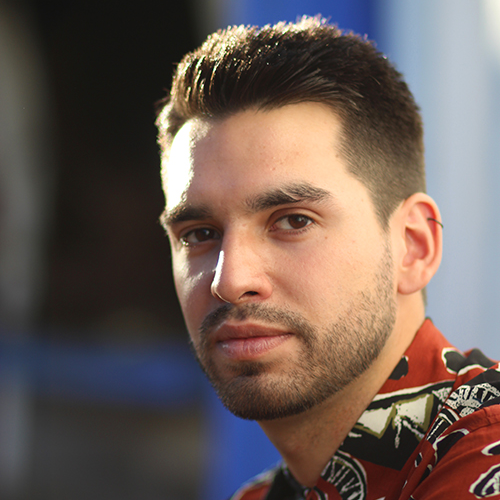
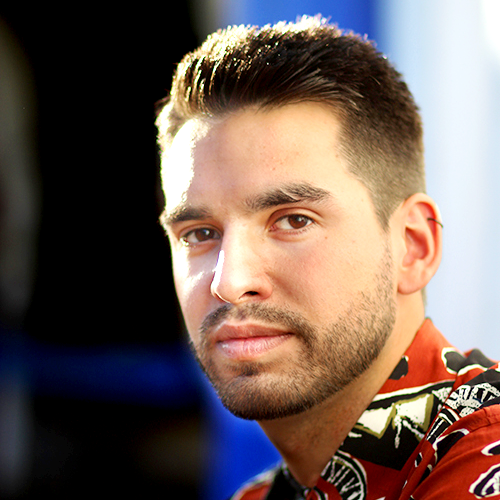
added red

diff --git a/assets/scss/app.scss b/assets/scss/app.scss
@@ -45,6 +45,7 @@ $scrollbar-width: .45rem;
 
 @import 'layout';
 @import 'modal';
+@import 'blobs';
 
 * {
 	text-rendering: optimizeLegibility;
@@ -103,6 +104,7 @@ $scrollbar-width: .45rem;
 
 
 :root {
+  // --primary: $color-primary;
   --blue: #494eff;
   --indigo: #6610f2;
   --purple: #710bb8;
@@ -11272,15 +11274,27 @@ a.badge-danger:focus {
   padding-left: 0;
   border-radius: 0;
 }
+.jumbotron-img-container {
+	position: relative;
+	width: 12rem;
+  height: 12rem;
+	margin-bottom: 4rem;
+	&.--has-blob {
+		padding: 1.25rem;
+	}
+}
+
 .jumbotron-img {
+	position: absolute;
   display: block;
-  width: 140px;
-  width: 10rem;
-  height: 140px;
-  height: 10rem;
-  border-radius: 5rem;
-  border: 2px solid $color-secondary;
-  margin-bottom: 4rem;
+	width: 100%;
+	height: 100%;
+  border-radius: 100%;
+	mix-blend-mode: darken;
+  // width: 10rem;
+  // height: 10rem;
+  // border: 2px solid $color-secondary;
+  // margin-bottom: 4rem;
 }
 .alert {
   position: relative;
@@ -12441,19 +12455,9 @@ a.badge-danger:focus {
   height: 1rem;
 }
 .section {
-  display: -webkit-box;
-  display: -webkit-flex;
-  display: -ms-flexbox;
   display: flex;
   position: relative;
-  -webkit-box-orient: vertical;
-  -webkit-box-direction: normal;
-  -webkit-flex-direction: column;
-  -ms-flex-direction: column;
   flex-direction: column;
-  -webkit-box-pack: justify;
-  -webkit-justify-content: space-between;
-  -ms-flex-pack: justify;
   justify-content: space-between;
   min-height: 100vh;
   overflow: hidden;
@@ -12471,6 +12475,23 @@ a.badge-danger:focus {
   text-transform: uppercase;
   font-size: 35px;
   font-size: 2.5rem;
+	&::before {
+		display: inline-block;
+		content: "#";
+		width: 2rem;
+		// width: 0;
+		// height: 2.75rem;
+		color: red;
+		transform-origin: left;
+		transform: scaleX(0);
+		transition: all ease-in-out .4s;
+		@include heading();
+
+		.interaction-in & {
+			// width: 2rem;
+			transform: scaleX(1);
+		}
+	}
 }
 @media (min-width: 360px) {
   .section-title {
@@ -12937,7 +12958,7 @@ a.badge-danger:focus {
   // height: auto;
   max-width: 100%;
   max-height: 100%;
-	filter: grayscale(100%) contrast(1.5);
+	filter: grayscale(100%) contrast(1.75);
 }
 .testimonial {
   display: flex;

diff --git a/assets/scss/_blobs.scss b/assets/scss/_blobs.scss
@@ -1,0 +1,105 @@
+
+.blob-container {
+	position: absolute;
+	width: 100%;
+	height: 100%;
+	transform: scale(1.195);
+}
+
+.blob {
+	position: relative;
+	animation: blob-turn var(--time, 30s) linear infinite;
+	fill: var(--fill, #7600f8);
+	transform-origin: center;
+}
+
+.blob svg {
+	animation: blob-skew calc(var(--time, 30s) * 0.5) linear 0s infinite;
+	transform-origin: center;
+}
+
+.blob svg path {
+	animation: blob-scale calc(var(--time, 30s) * 0.5) ease-in-out 0s infinite;
+	transform-origin: center;
+}
+
+@keyframes blob-turn {
+	0% {
+		transform: rotate(0deg), scale(1);
+	}
+	100% {
+		transform: rotate(360deg), scale(3);
+	}
+}
+
+@keyframes blob-skew {
+	0% {
+		transform: skewY(0deg);
+	}
+	13% {
+		transform: skewY(calc((1.8deg) * var(--amount, 2)));
+	}
+	18% {
+		transform: skewY(calc((2.2deg) * var(--amount, 2)));
+	}
+	24% {
+		transform: skewY(calc((2.48deg) * var(--amount, 2)));
+	}
+	25% {
+		transform: skewY(calc((2.5deg) * var(--amount, 2)));
+	}
+	26% {
+		transform: skewY(calc((2.48deg) * var(--amount, 2)));
+	}
+	32% {
+		transform: skewY(calc((2.2deg) * var(--amount, 2)));
+	}
+	37% {
+		transform: skewY(calc((1.8deg) * var(--amount, 2)));
+	}
+	50% {
+		transform: skewY(0deg);
+	}
+	63% {
+		transform: skewY(calc((-1.8deg) * var(--amount, 2)));
+	}
+	68% {
+		transform: skewY(calc((-2.2deg) * var(--amount, 2)));
+	}
+	74% {
+		transform: skewY(calc((-2.48deg) * var(--amount, 2)));
+	}
+	75% {
+		transform: skewY(calc((-2.5deg) * var(--amount, 2)));
+	}
+	76% {
+		transform: skewY(calc((-2.48deg) * var(--amount, 2)));
+	}
+	82% {
+		transform: skewY(calc((-2.2deg) * var(--amount, 2)));
+	}
+	87% {
+		transform: skewY(calc((-1.8deg) * var(--amount, 2)));
+	}
+	100% {
+		transform: skewY(0deg);
+	}
+}
+
+@keyframes blob-scale {
+	0% {
+		transform: scaleX(0.9) scaleY(1);
+	}
+	25% {
+		transform: scaleX(0.9) scaleY(0.9);
+	}
+	50% {
+		transform: scaleX(1) scaleY(0.9);
+	}
+	75% {
+		transform: scaleX(0.9) scaleY(0.9);
+	}
+	100% {
+		transform: scaleX(0.9) scaleY(1);
+	}
+}

diff --git a/components/sections/Hero.vue b/components/sections/Hero.vue
@@ -1,12 +1,18 @@
 <template>
   <div class="jumbotron jumbotron-fluid pt-6 pt-lg-8 pb-0 mb-0">
-    <img
-      src="assets/img/avatar.png"
-      class="jumbotron-img animation-translate animation-item-1"
-      alt="Avatar"
-      @mouseenter="$root.$emit('anchor-hover')"
-      @mouseleave="$root.$emit('anchor-hover')"
-    />
+		<div class="jumbotron-img-container --has-blob animation-translate animation-item-1">
+			<Blob time="5" amount="5" fill="#ff007a" />
+			<Blob time="4.75" amount="5" fill="#ff00b5" />
+			<Blob time="3.55" amount="5" fill="#ff23f2" />
+			<Blob time="2.35" amount="5" fill="#ff0000" />
+			<img
+				src="assets/img/avatar.png"
+				alt="Avatar"
+				class="jumbotron-img"
+				@mouseenter="$root.$emit('anchor-hover')"
+				@mouseleave="$root.$emit('anchor-hover')"
+			/>
+		</div>
     <h1
       class="
         display-1 display-animated display-animated-in
@@ -28,7 +34,11 @@
   </div>
 </template>
 <script>
+import Blob from '~/components/Blob.vue'
 export default {
+	components: {
+    Blob
+  },
   props: {
     content: {
       type: Object,

diff --git a/components/Blob.vue b/components/Blob.vue
@@ -1,0 +1,30 @@
+<template>
+	<div class="blob-container">
+		<div class="blob" :style="'--time:' + time + 's;' + '--amount:' + amount +';' + '--fill:' + fill + ';'">
+			<svg xmlns="http://www.w3.org/2000/svg" viewBox="0 0 747.2 726.7">
+				<path
+					d="M539.8 137.6c98.3 69 183.5 124 203 198.4 19.3 74.4-27.1 168.2-93.8 245-66.8 76.8-153.8 136.6-254.2 144.9-100.6 8.2-214.7-35.1-292.7-122.5S-18.1 384.1 7.4 259.8C33 135.6 126.3 19 228.5 2.2c102.1-16.8 213.2 66.3 311.3 135.4z"
+				></path>
+			</svg>
+		</div>
+	</div>
+</template>
+
+<script>
+export default {
+  props: {
+    time: {
+      type: String,
+      default: "4",
+    },
+    amount: {
+      type: String,
+      default: "4",
+    },
+    fill: {
+      type: String,
+      default: '#ff007a',
+    },
+  },
+}
+</script>
